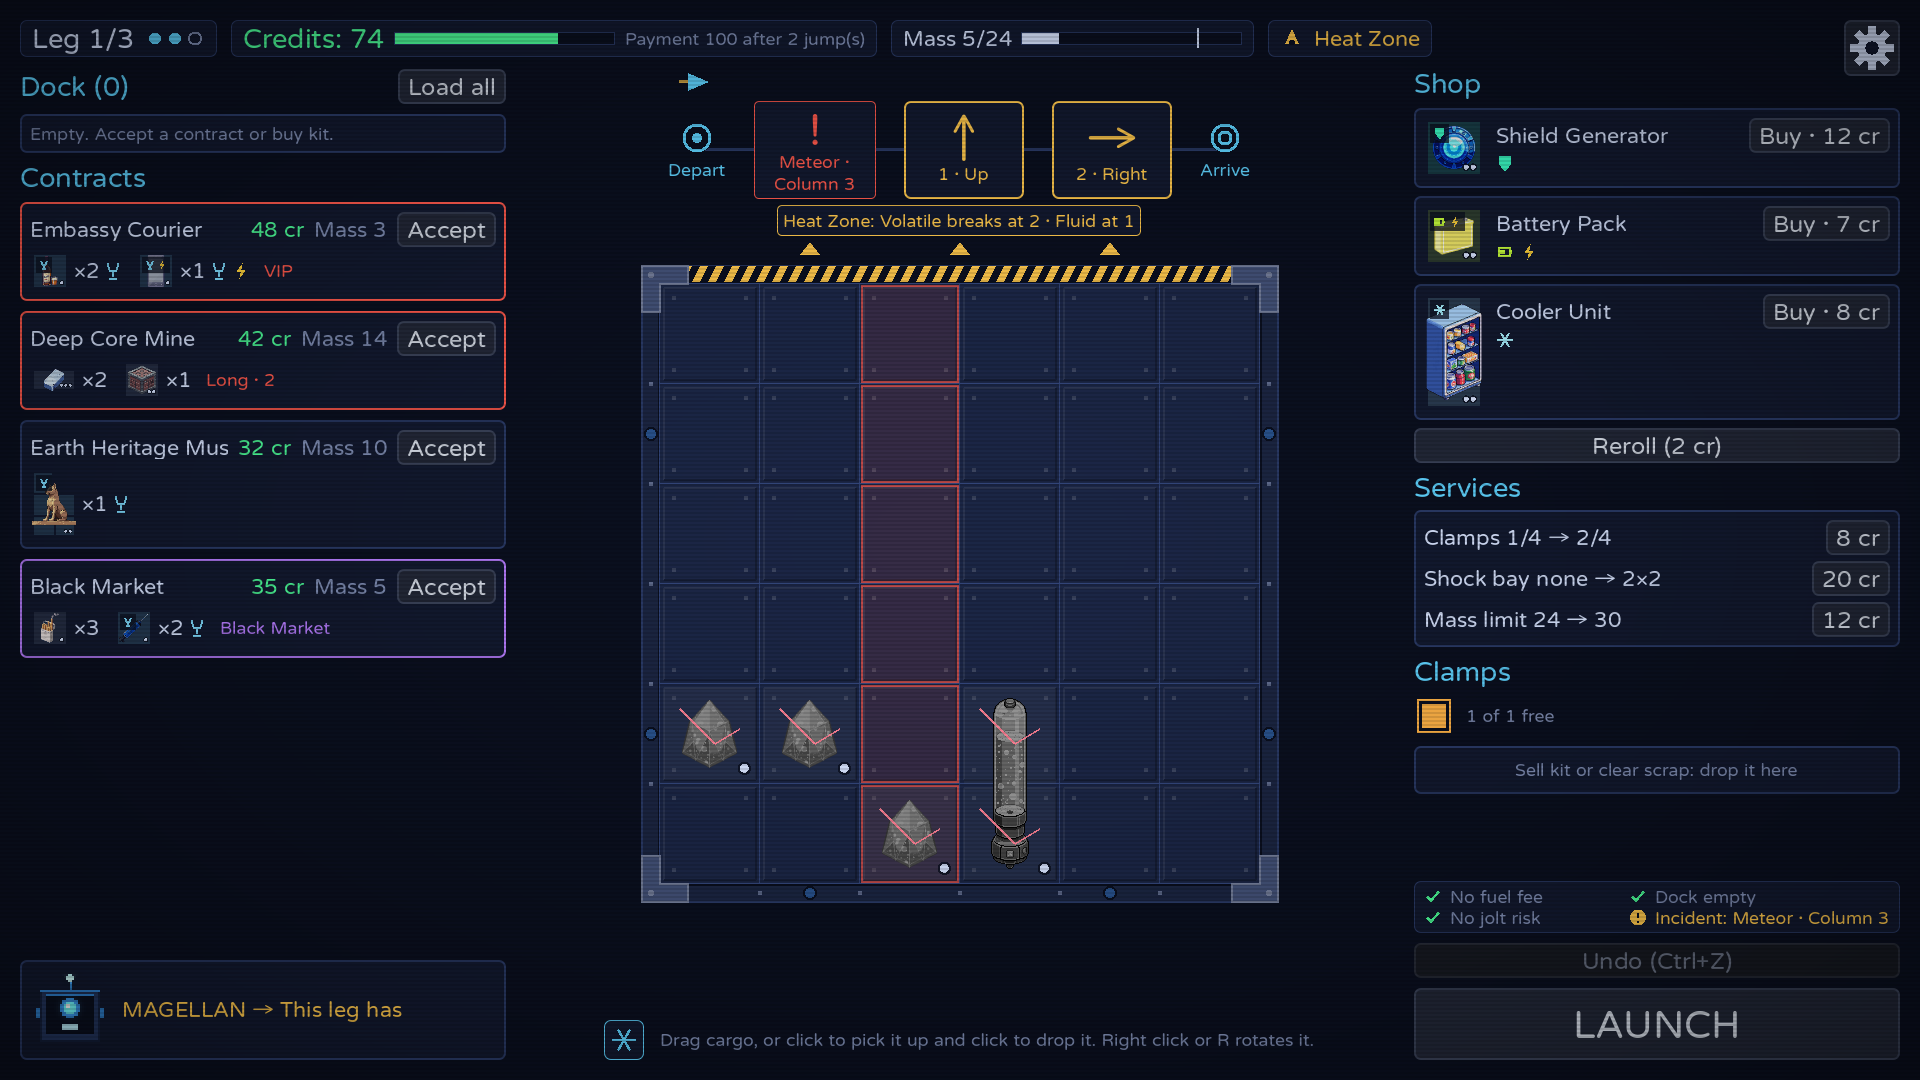
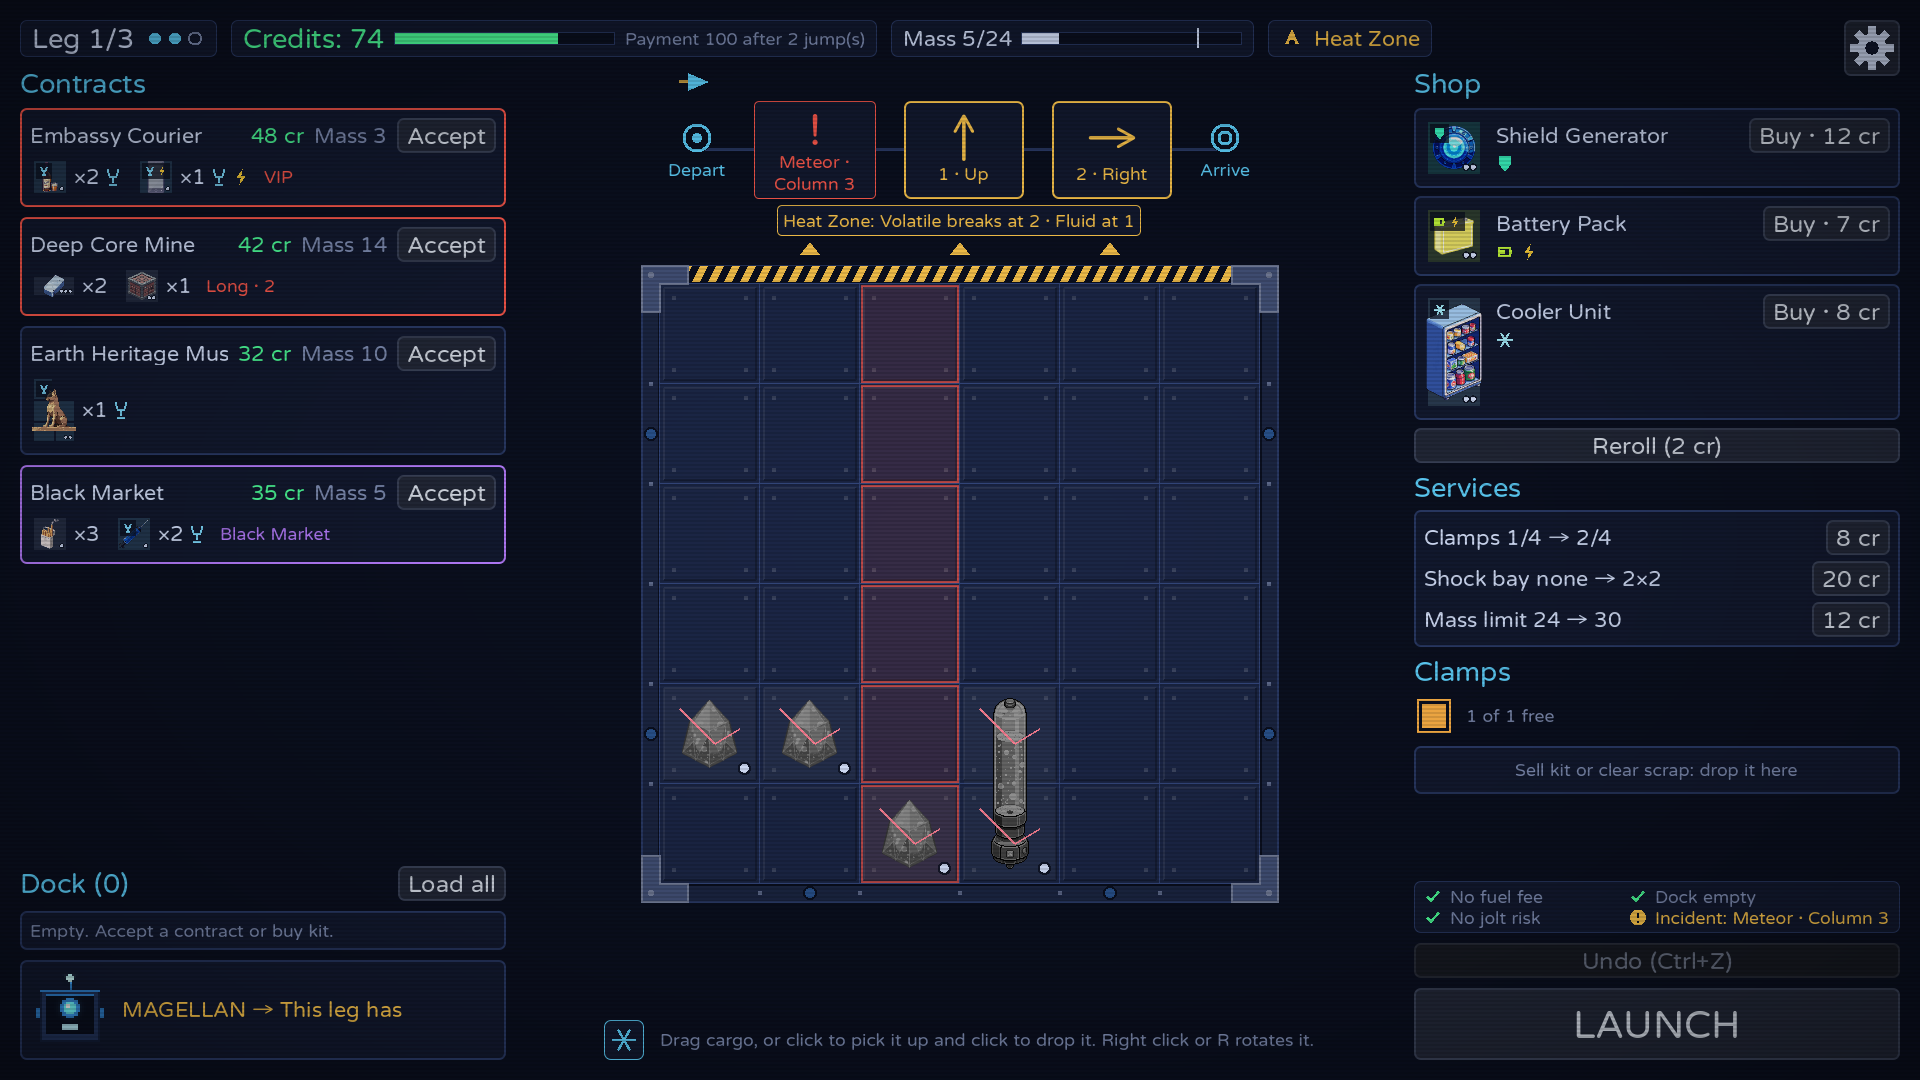
feat: The dock is below the contract board
- The contract board is at the top of the left column, and the dock is below it, above the pilot box (SPEC Section 20.2).
- The dock grows to 3 rows at most, then scrolls. The contract board fills the rest of the column.
- New screenshots and itch.io images.

diff --git a/docs/spec/ui.md b/docs/spec/ui.md
@@ -20,8 +20,8 @@ The station screen has these areas:
 | Top bar | Top | Four groups: (1) the leg, and a dot for each jump of the leg; (2) the credits, and a bar of the credits against the payment of this leg, with the jumps before the payment; (3) a bar of the hold mass, with a mark at the mass limit and a mark at the maximum (Section 25); (4) a badge with the icon and the name of the environment of the leg, with its rule when the mouse is on it (Section 28). A gear button at the right opens the pause menu (Section 20.7). |
 | Pilot box | Bottom left | The portrait and the line of the pilot, in a wide box (Section 22). |
 | Route bar | Center, above the hold | The route of the next jump, from left to right: the depart point (the ship), the incident (Section 29), each shift step in order (Section 18), and the arrive point (the station). A line joins the points. Each step is a card with a large arrow, its number, and its direction. A fork step shows its two directions and a question mark. The environment of the leg is a band below the line (Section 28). |
-| Dock | Left, top | The cargo on the dock (Section 8.1). |
-| Contract board | Left, below the dock | The 4 contracts, with Accept and Cancel buttons (Section 15). |
+| Contract board | Left, top | The 4 contracts, with Accept and Cancel buttons (Section 15). |
+| Dock | Left, below the contract board, above the pilot box | The cargo on the dock (Section 8.1). |
 | Hold | Center | The grid and its cargo, the links, and the clamps, inside a bulkhead (Section 21.6). Each cell is 100 pixels, the size of the cargo images (Section 4.2). |
 | Shock bay | Left of the hold | The cells of the shock bay, after its purchase (Section 31.2). |
 | Mod bar | Below the hold | A card with the icon of each mod of the ship (Section 27). The mouse on a card shows the name and the rule of the mod, and marks the area of the mod on the hold. |
@@ -36,7 +36,7 @@ Contracts and the dock:
 - The mass of a contract that is not accepted is yellow when the mass after it is above the mass limit (a fuel fee), and red when it is above the maximum.
 - An accepted contract has a bright border and shows "Loaded N/M" on its second line: N pieces of its M pieces are in the hold.
 - When the mouse is on a contract card, the hold marks the freight of that contract.
-- The dock title shows the number of cargo on the dock. The dock shows its cargo at 48 pixels for each cell. An empty dock is one line of text.
+- The dock title shows the number of cargo on the dock. The dock shows its cargo at 48 pixels for each cell. An empty dock is one line of text. The dock is 3 rows high at most. More cargo scrolls in the dock. The contract board fills the rest of the column, and scrolls when its cards do not fit.
 
 The hazard:
 
